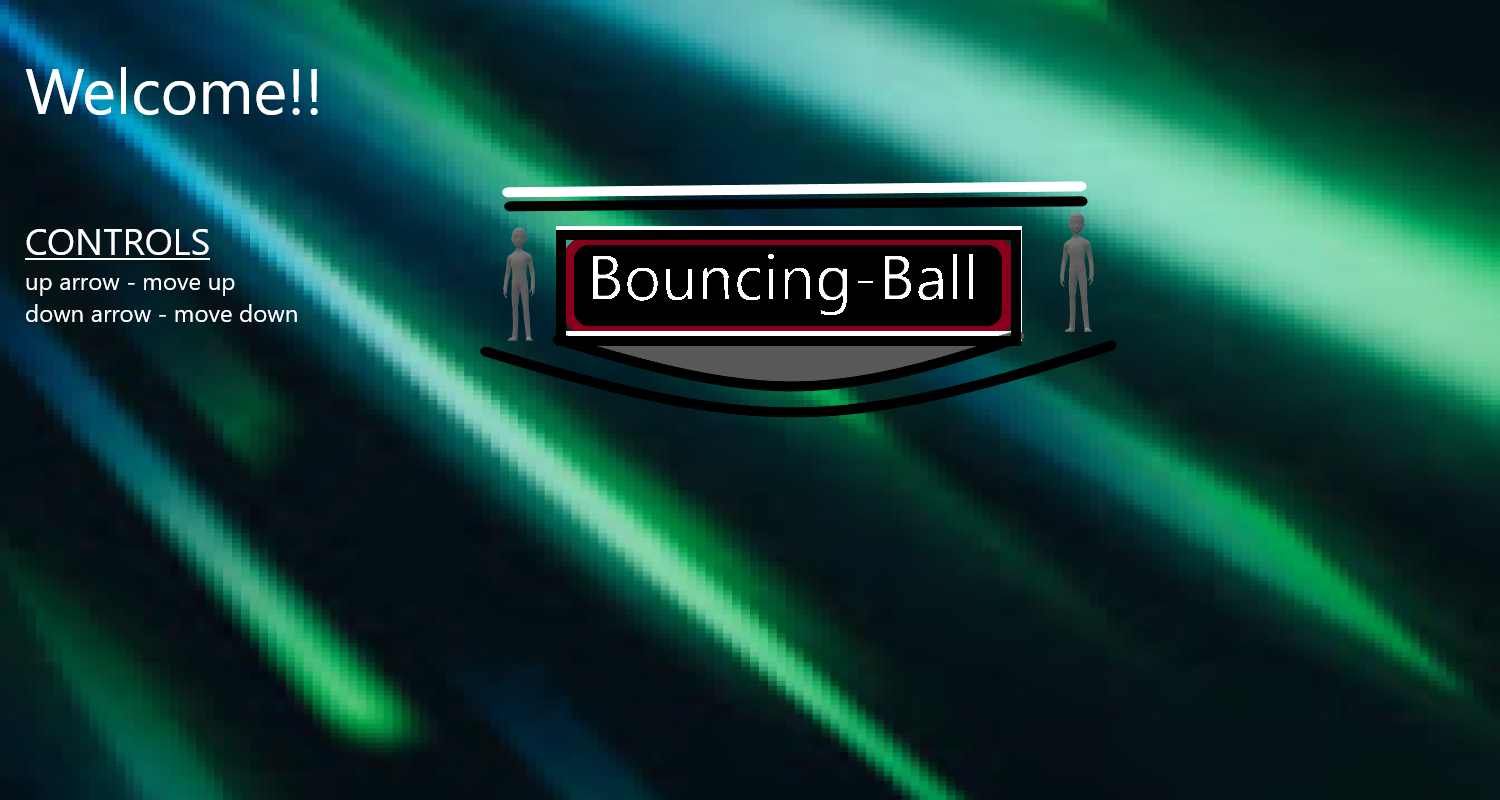
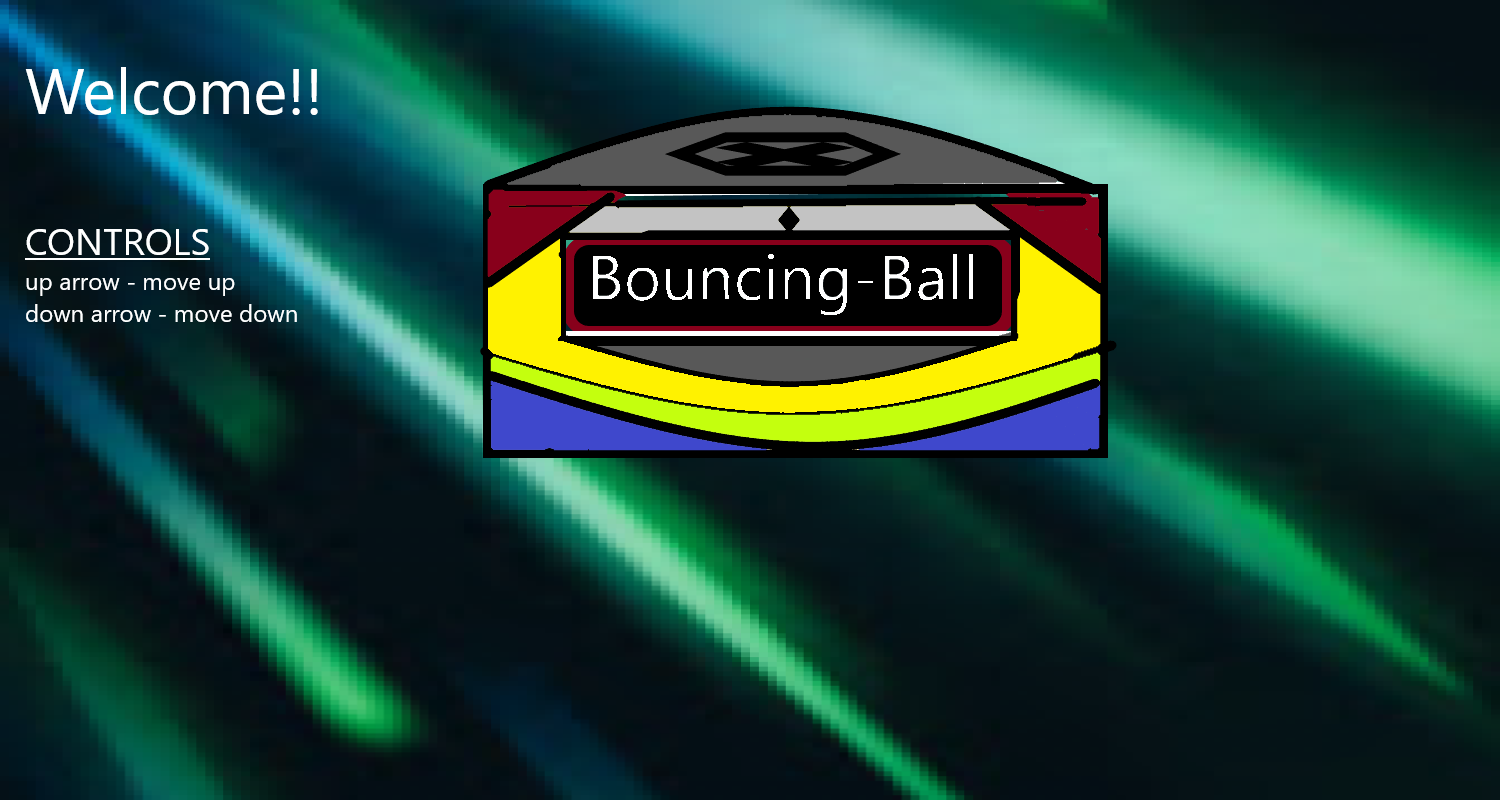
changed loading screen and added another loading screen cause I wanted to (again)

Changed region(s): [[0.3067, 0.125, 0.736, 0.5938]]

diff --git a/BouncingBall/BouncingBall.py b/BouncingBall/BouncingBall.py
@@ -39,6 +39,8 @@ background2 = pygame.image.load("background2.jpg")
 
 game_over_screen = pygame.image.load("game_over.jpg")
 
+game2 = pygame.image.load("game2.jpg")
+
 
 pic = pygame.image.load("pic .png")
 
@@ -99,6 +101,11 @@ basketballY = 360
 basketballX2 = 0
 basketballY2 = 360
 
+lol = False
+pol = False
+
+gscreen = random.randint(1,200)
+
 poop = True
 soop = True                
 
@@ -117,6 +124,9 @@ another_game_loop = True
 
 mixer.music.load('EOTT.ogg')
 mixer.music.play(-1)
+
+kunt = False
+punt = False
 
 print(lscreen)
 
@@ -171,7 +181,10 @@ while game_loop is True:
                             for_the_other_one = True
                     if basketballX2 >= paddleX:
                         if balls == 1:
-                            screen.blit(game_over_screen, (0,0))
+                            if gscreen > 0 and gscreen < 101:                                    
+                                screen.blit(game_over_screen, (0,0))
+                            if gscreen > 100 and gscreen < 201:                                    
+                                screen.blit(game2, (0,0))
                             pygame.display.update()
                                         
                                                                 
@@ -184,7 +197,10 @@ while game_loop is True:
                         if basketballX2 >= paddleX:
                             if balls == 1:
                                 balls == 0
-                                screen.blit(game_over_screen, (0,0))
+                                if gscreen > 0 and gscreen < 101:                                    
+                                    screen.blit(game_over_screen, (0,0))
+                                if gscreen > 100 and gscreen < 201:                                    
+                                    screen.blit(game2, (0,0))
                                 pygame.display.update()                                 
 
 
@@ -195,6 +211,7 @@ while game_loop is True:
                         if basketballX + 51 == paddleX:
                             #print('ok')
                             false = True
+                            lol = True                            
                     if paddleY + 116 < basketballY + 51 and paddleY + 232 >= basketballY + 51:
                         if basketballX + 51 == paddleX:
                             print('ok')
@@ -209,11 +226,31 @@ while game_loop is True:
                         if basketballX2 + 51 == paddleX:
                             #print('ok')
                             true = False
+                            pol = True
+
+                            
                     if paddleY + 116 < basketballY2 + 51 and paddleY + 232 >= basketballY2 + 51:
                         if basketballX2 + 51 == paddleX:
                             print('yeah!!!')
                             prue = False
 
+                    if lol is True:
+                        #print('dkjdahf')
+                        if basketballY - 4 < 51:
+                            #print('kdsjfh')
+                            kunt = True
+                            
+                    if pol is True:
+                        if basketballY2 - 4 < 51:
+                            #print('dkjdahf')
+                            punt = True
+
+                    if kunt is True:
+                        basketballY + house_timing
+                    if punt is True:
+                        basketballY2 + house_timing
+ 
+                        
                     if false is True:
                         basketballX -= house_timing
                         basketballY -= house_timing
@@ -222,13 +259,7 @@ while game_loop is True:
                         basketballX2 -= house_timing
                         basketballY2 -= house_timing
 
-                    if palse is True:
-                        basketballX -= house_timing
-                        basketballY += house_timing
-                        
-                    if prue is False:
-                        basketballX2 -= house_timing
-                        basketballY2 += house_timing
+
                         
                     if false is False:                        
                         if poop is True:        
